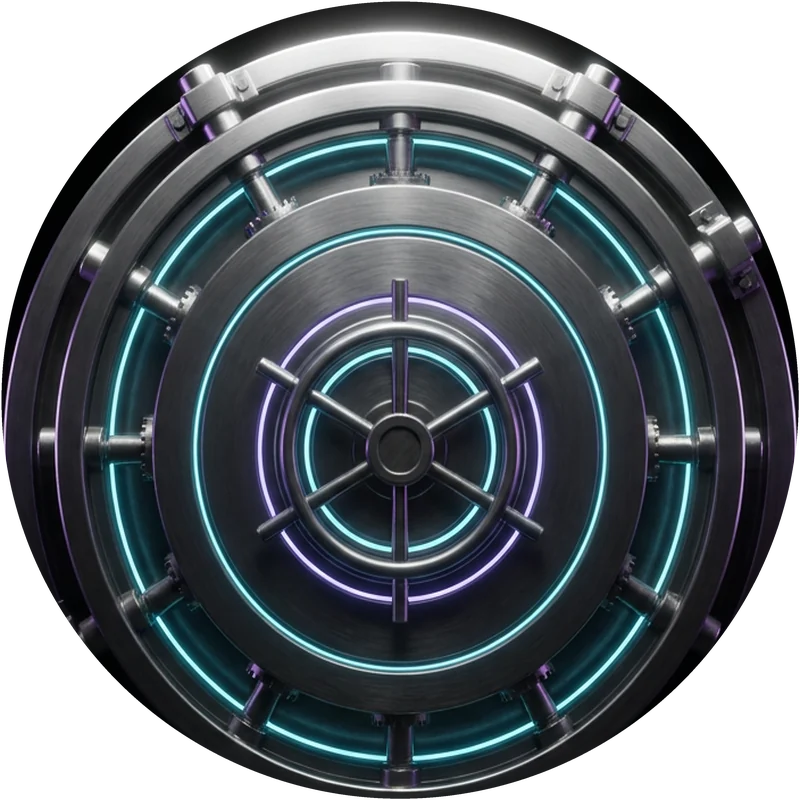
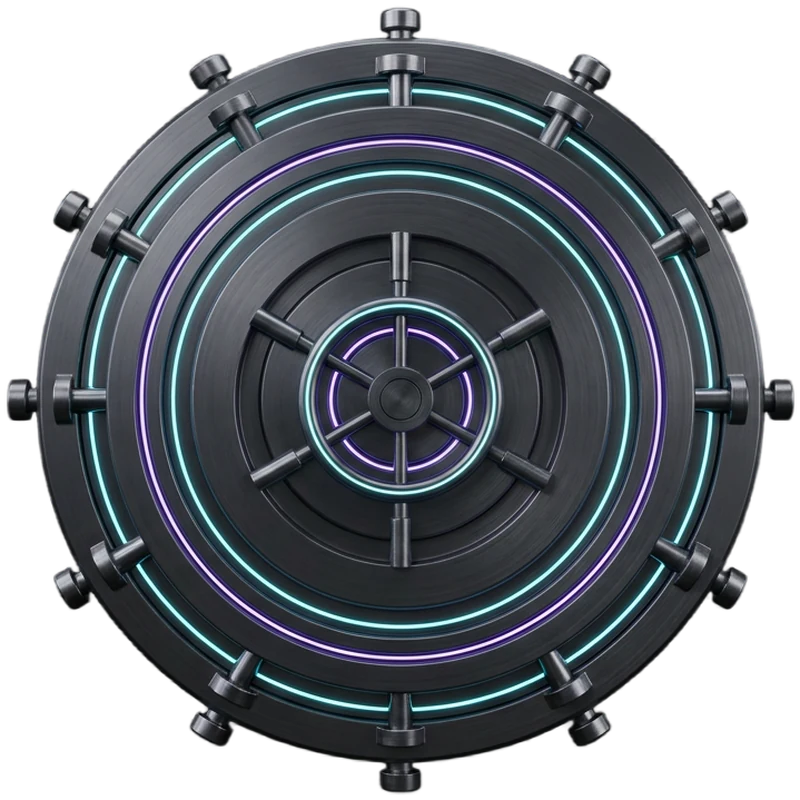
26.6.11: Vault cutscene with full spinning door, pixel glitches, dense hyperspace and new sound
Claude-Session: https://claude.ai/code/session_01TEwoRxsYmEj8fXxorjx1p8

diff --git a/static/js/vault-cutscene.js b/static/js/vault-cutscene.js
@@ -2,6 +2,7 @@
 // checks, "ACCESS GRANTED" slams in, the bolts on a round vault door pull back, the door
 // splits open into a hyperspace rush of light, and the Vault appears.
 // VaultCutscene.play({ name, role }) → Promise that resolves when it's over (about 7 s).
+// 26.6.11: a full, spinning door; colourful pixel glitches; a dense hyperspace rush; new glitchy sound.
 // 26.6.10: real pictures — a steel vault door with a turning locking wheel, and the glowing vault corridor behind it.
 // Click, Enter, Space or Esc skips it. People who prefer reduced motion get a short fade.
 (function () {
@@ -12,26 +13,37 @@
 @keyframes vcsIn{from{opacity:0}}
 #vcs .inside{position:absolute;inset:-4%;background:url(${IMG}inside.jpg) center/cover no-repeat;opacity:0;transform:scale(1.25);filter:brightness(.5) saturate(1.2)}
 #vcs.open .inside{opacity:1;transform:scale(1);filter:brightness(1.05) saturate(1.25);transition:opacity .5s ease-out,transform 1.1s cubic-bezier(.3,0,.2,1),filter 1s}
-#vcs.fly .inside{transform:scale(2.6);filter:brightness(1.6) saturate(1.3) blur(3px);transition:transform 1.7s cubic-bezier(.6,0,.4,1),filter 1.7s ease-in}
+#vcs.fly .inside{transform:scale(2.6);opacity:.3;filter:brightness(1.2) saturate(1.4) blur(6px);transition:transform 1.7s cubic-bezier(.6,0,.4,1),filter 1.2s ease-in,opacity 1s ease-in}
 #vcs canvas{position:absolute;inset:0;width:100%;height:100%}
-#vcs.open canvas{mix-blend-mode:screen}
+#vcs.open canvas.warp{mix-blend-mode:screen}
+#vcs canvas.gl{z-index:5;pointer-events:none}
+#vcs.glitch .stage{animation:vcsJit .09s steps(2) infinite}
+#vcs.glitch .grant h1{text-shadow:-8px 0 rgba(255,0,120,.9),8px 0 rgba(0,230,255,.9),0 0 30px rgba(74,222,128,.9)}
+@keyframes vcsJit{0%{translate:-6px 2px;filter:hue-rotate(40deg)}50%{translate:7px -3px;filter:hue-rotate(-40deg) saturate(2)}100%{translate:0 0}}
+#vcs .core{position:absolute;left:50%;top:50%;width:30vmin;height:30vmin;margin:-15vmin 0 0 -15vmin;border-radius:50%;opacity:0;background:radial-gradient(circle,#fff 0%,rgba(220,240,255,.95) 12%,rgba(120,190,255,.55) 32%,rgba(60,120,255,.18) 55%,transparent 70%);mix-blend-mode:screen;z-index:4;pointer-events:none}
+#vcs.fly .core{opacity:1;transform:scale(2.2);transition:opacity .5s,transform 1.6s ease-in}
 #vcs .flash{position:absolute;inset:0;background:#fff;opacity:0;pointer-events:none}
 #vcs .flash.go{animation:vcsFlash .4s ease-out}
-@keyframes vcsFlash{0%{opacity:.55}100%{opacity:0}}
+@keyframes vcsFlash{0%{opacity:.3}100%{opacity:0}}
 #vcs .flash.end{animation:vcsFlashEnd .55s ease-in forwards}
 @keyframes vcsFlashEnd{to{opacity:1}}
 #vcs .scanl{position:absolute;inset:0;pointer-events:none;background:repeating-linear-gradient(0deg,rgba(255,255,255,.03) 0 1px,transparent 1px 3px);mix-blend-mode:overlay}
 #vcs .vign{position:absolute;inset:0;pointer-events:none;background:radial-gradient(ellipse at center,transparent 40%,rgba(0,0,0,.8) 100%)}
-#vcs .stage{position:absolute;left:50%;top:50%;width:min(76vmin,640px);height:min(76vmin,640px);transform:translate(-50%,-50%) scale(.55);opacity:0;transition:transform 1.6s cubic-bezier(.2,.9,.3,1),opacity .6s}
+#vcs .stage{position:absolute;left:50%;top:50%;width:min(66vmin,600px);height:min(66vmin,600px);transform:translate(-50%,-50%) scale(.55);opacity:0;transition:transform 1.6s cubic-bezier(.2,.9,.3,1),opacity .6s}
 #vcs.in .stage{transform:translate(-50%,-50%) scale(1);opacity:1}
-#vcs.push .stage{transform:translate(-50%,-50%) scale(1.08);transition:transform 2.6s ease-in-out}
+#vcs.push .stage{transform:translate(-50%,-50%) scale(1.05);transition:transform 2.6s ease-in-out}
 #vcs .half{position:absolute;inset:0;transition:transform 1.2s cubic-bezier(.7,0,.2,1),filter 1.2s}
-#vcs .half.l{clip-path:inset(-5% 50% -5% -5%)} #vcs .half.r{clip-path:inset(-5% -5% -5% 50%)}
+#vcs .half.l{clip-path:inset(-10% 49.7% -10% -10%)} #vcs .half.r{clip-path:inset(-10% -10% -10% 49.7%)}
 #vcs.open .half.l{transform:translateX(-70vw) rotateY(25deg)} #vcs.open .half.r{transform:translateX(70vw) rotateY(-25deg)}
-#vcs .door{position:absolute;inset:0;width:100%;height:100%;filter:drop-shadow(0 0 40px rgba(80,200,255,.35)) drop-shadow(0 20px 40px rgba(0,0,0,.8))}
-#vcs .wheel{position:absolute;left:31.25%;top:37%;width:37.5%;height:37.5%;transition:transform 1.3s cubic-bezier(.5,0,.25,1)}
-#vcs.turn .wheel{transform:rotate(300deg)}
-#vcs .glow{position:absolute;left:31.25%;top:37%;width:37.5%;height:37.5%;border-radius:50%;opacity:0;background:radial-gradient(circle,rgba(74,222,128,.55),rgba(34,197,94,.15) 55%,transparent 70%);mix-blend-mode:screen;transition:opacity .4s}
+#vcs .spin{position:absolute;inset:0;transition:transform 1.25s cubic-bezier(.55,0,.2,1)}
+#vcs.turn .spin{transform:rotate(-135deg)}
+#vcs .door{position:absolute;inset:0;width:100%;height:100%;object-fit:contain;filter:drop-shadow(0 0 40px rgba(80,200,255,.35)) drop-shadow(0 20px 40px rgba(0,0,0,.8))}
+#vcs .sweep{position:absolute;inset:-3%;border-radius:50%;opacity:0;background:conic-gradient(from 0deg,transparent 0 62%,rgba(103,232,249,.0) 64%,rgba(103,232,249,.85) 74%,rgba(255,255,255,.95) 75%,transparent 76%);-webkit-mask:radial-gradient(farthest-side,transparent calc(100% - 14px),#000 calc(100% - 13px));mask:radial-gradient(farthest-side,transparent calc(100% - 14px),#000 calc(100% - 13px));filter:drop-shadow(0 0 10px #22d3ee)}
+#vcs.turn .sweep{opacity:1;animation:vcsRot .35s linear 4 reverse}
+#vcs.open .sweep,#vcs.open .ringfx,#vcs.open .beam{opacity:0!important;animation:none!important}
+@keyframes vcsRot{to{transform:rotate(360deg)}}
+#vcs.turn .spin .door{filter:drop-shadow(0 0 50px rgba(80,200,255,.6)) blur(.6px)}
+#vcs .glow{position:absolute;left:30%;top:30%;width:40%;height:40%;border-radius:50%;opacity:0;background:radial-gradient(circle,rgba(74,222,128,.55),rgba(34,197,94,.15) 55%,transparent 70%);mix-blend-mode:screen;transition:opacity .4s}
 #vcs.granted .glow{opacity:1;animation:vcsPulse 1s ease-in-out infinite}
 @keyframes vcsPulse{50%{transform:scale(1.12);opacity:.7}}
 #vcs .beam{position:absolute;left:-6%;right:-6%;height:3px;top:0;opacity:0;background:linear-gradient(90deg,transparent,#67e8f9 20%,#fff 50%,#67e8f9 80%,transparent);box-shadow:0 0 18px #22d3ee,0 0 40px #06b6d4}
@@ -65,39 +77,71 @@
 @media (max-width:600px){#vcs .hud{font-size:10px;top:5vh}#vcs .hud2{display:none}}
 `;
     // preload the pictures as soon as this file loads, so the cutscene never waits for them
-    ['door.webp', 'wheel.webp', 'inside.jpg'].forEach(function (f) { var i = new Image(); i.src = IMG + f; });
+    ['door.webp', 'inside.jpg'].forEach(function (f) { var i = new Image(); i.src = IMG + f; });
 
+    // 26.6.11: sound inspired by the clip you sent — bright, glitchy and digital, in E minor at
+    // about 156 BPM, no heavy bass: chattering data ticks over a hiss, a long riser, stuttering
+    // glitches on ACCESS GRANTED, ratchets as the door spins, a sudden cut to silence, then an
+    // impact and a shimmering arpeggio as you rush through hyperspace.
     function sound() {
-        // quiet and only if the browser allows it: a rising hum while scanning, a bright chime for
-        // ACCESS GRANTED, heavy clunks as the wheel turns, a deep boom and a whoosh as the door opens
         try {
             var AC = window.AudioContext || window.webkitAudioContext; if (!AC) return function () {};
-            var a = new AC(), m = a.createGain(); m.gain.value = 0.16; m.connect(a.destination);
-            var t0 = a.currentTime;
-            var hum = a.createOscillator(), hg = a.createGain(), lp = a.createBiquadFilter();
-            hum.type = 'sawtooth'; hum.frequency.setValueAtTime(45, t0); hum.frequency.exponentialRampToValueAtTime(110, t0 + 3); hum.frequency.exponentialRampToValueAtTime(260, t0 + 6.5);
-            lp.type = 'lowpass'; lp.frequency.setValueAtTime(250, t0); lp.frequency.exponentialRampToValueAtTime(2600, t0 + 6.5);
-            hg.gain.setValueAtTime(0.0001, t0); hg.gain.exponentialRampToValueAtTime(0.45, t0 + 0.8); hg.gain.setValueAtTime(0.45, t0 + 5.5); hg.gain.exponentialRampToValueAtTime(0.0001, t0 + 7);
-            hum.connect(lp); lp.connect(hg); hg.connect(m); hum.start(t0); hum.stop(t0 + 7.1);
-            function beep(at, f) { var o = a.createOscillator(), g = a.createGain(); o.type = 'square'; o.frequency.value = f; g.gain.setValueAtTime(0.0001, t0 + at); g.gain.exponentialRampToValueAtTime(0.12, t0 + at + 0.01); g.gain.exponentialRampToValueAtTime(0.0001, t0 + at + 0.08); o.connect(g); g.connect(m); o.start(t0 + at); o.stop(t0 + at + 0.1); }
-            for (var b = 0; b < 8; b++) beep(0.3 + b * 0.32, 1200 + (b % 3) * 300);
-            function clunk(at, f) {
-                var o = a.createOscillator(), g = a.createGain(); o.type = 'square'; o.frequency.setValueAtTime(f || 140, t0 + at); o.frequency.exponentialRampToValueAtTime(35, t0 + at + 0.18);
-                g.gain.setValueAtTime(0.7, t0 + at); g.gain.exponentialRampToValueAtTime(0.0001, t0 + at + 0.25); o.connect(g); g.connect(m); o.start(t0 + at); o.stop(t0 + at + 0.3);
+            var a = new AC(), m = a.createGain(), comp = a.createDynamicsCompressor();
+            m.gain.value = 0.9; m.connect(comp); comp.connect(a.destination);
+            var t0 = a.currentTime + 0.03, SR = a.sampleRate;
+            var hp = a.createBiquadFilter(); hp.type = 'highpass'; hp.frequency.value = 160; hp.connect(m);   // keep it light, no rumble
+            var bus = hp;
+            // bit-crusher for that digital grit
+            var crush = a.createWaveShaper(), cv = new Float32Array(1024);
+            for (var i = 0; i < 1024; i++) { var v = i / 512 - 1; cv[i] = Math.round(v * 6) / 6; }
+            crush.curve = cv; crush.connect(bus);
+            function noiseBuf(sec) { var b = a.createBuffer(1, SR * sec, SR), d = b.getChannelData(0); for (var j = 0; j < d.length; j++) d[j] = Math.random() * 2 - 1; return b; }
+            var NB = noiseBuf(2);
+            function env(g, at, peak, atk, dec) { g.gain.setValueAtTime(0.0001, at); g.gain.exponentialRampToValueAtTime(peak, at + atk); g.gain.exponentialRampToValueAtTime(0.0001, at + atk + dec); }
+            function tone(at, f, dur, type, vol, dest) {
+                var o = a.createOscillator(), g = a.createGain(); o.type = type || 'square'; o.frequency.value = f;
+                env(g, at, vol || 0.1, 0.004, dur); o.connect(g); g.connect(dest || crush); o.start(at); o.stop(at + dur + 0.05);
             }
-            [880, 1318.5, 1760].forEach(function (f, i) {
-                var o = a.createOscillator(), g = a.createGain(); o.type = 'sine'; o.frequency.value = f;
-                var at = t0 + 3.0 + i * 0.08; g.gain.setValueAtTime(0.0001, at); g.gain.exponentialRampToValueAtTime(0.35, at + 0.02); g.gain.exponentialRampToValueAtTime(0.0001, at + 1.4);
-                o.connect(g); g.connect(m); o.start(at); o.stop(at + 1.5);
+            function noise(at, dur, f1, f2, vol, q, shape) {
+                var n = a.createBufferSource(), bp = a.createBiquadFilter(), g = a.createGain();
+                n.buffer = NB; n.loop = true; bp.type = 'bandpass'; bp.Q.value = q || 1;
+                bp.frequency.setValueAtTime(f1, at); bp.frequency.exponentialRampToValueAtTime(f2, at + dur);
+                if (shape === 'rise') { g.gain.setValueAtTime(0.0001, at); g.gain.exponentialRampToValueAtTime(vol, at + dur - 0.04); g.gain.linearRampToValueAtTime(0.0001, at + dur); }
+                else if (shape === 'flat') { g.gain.setValueAtTime(0.0001, at); g.gain.linearRampToValueAtTime(vol, at + 0.3); g.gain.setValueAtTime(vol, at + dur - 0.3); g.gain.linearRampToValueAtTime(0.0001, at + dur); }
+                else { g.gain.setValueAtTime(0.0001, at); g.gain.exponentialRampToValueAtTime(vol, at + Math.min(0.05, dur / 3)); g.gain.exponentialRampToValueAtTime(0.0001, at + dur); }
+                n.connect(bp); bp.connect(g); g.connect(bus); n.start(at, Math.random()); n.stop(at + dur + 0.05);
+            }
+            var E = [329.6, 392, 493.9, 587.3, 659.3, 784, 987.8, 1318.5];   // E minor pentatonic-ish, bright octaves
+            var S16 = 60 / 156 / 4;
+            // hiss bed + data ticks (0 → 3 s)
+            noise(t0, 3.0, 6000, 9000, 0.12, 0.4, 'flat');
+            for (var k = 0; k * S16 < 2.9; k++) if (Math.random() < 0.75) tone(t0 + k * S16, E[4 + Math.floor(Math.random() * 4)] * (Math.random() < 0.3 ? 2 : 1), 0.04, 'square', 0.05);
+            // riser into the reveal
+            var r = a.createOscillator(), rg = a.createGain(); r.type = 'sawtooth';
+            r.frequency.setValueAtTime(220, t0 + 0.6); r.frequency.exponentialRampToValueAtTime(1760, t0 + 2.95);
+            rg.gain.setValueAtTime(0.0001, t0 + 0.6); rg.gain.exponentialRampToValueAtTime(0.16, t0 + 2.8); rg.gain.exponentialRampToValueAtTime(0.0001, t0 + 3.0);
+            r.connect(rg); rg.connect(crush); r.start(t0 + 0.6); r.stop(t0 + 3.05);
+            noise(t0 + 1.0, 2.0, 400, 7000, 0.4, 1.5, 'rise');
+            // ACCESS GRANTED (3.0 s): stutter glitch + bright E minor stab
+            for (var st = 0; st < 10; st++) { var at = t0 + 3.0 + st * 0.03; if (st % 3 !== 2) noise(at, 0.025, 2000 + Math.random() * 5000, 3000 + Math.random() * 4000, 0.3, 2); }
+            [659.3, 784, 987.8, 1318.5].forEach(function (f) {
+                [-7, 7].forEach(function (det) {
+                    var o = a.createOscillator(), g = a.createGain(); o.type = 'sawtooth'; o.frequency.value = f; o.detune.value = det;
+                    env(g, t0 + 3.3, 0.05, 0.01, 1.3); o.connect(g); g.connect(bus); o.start(t0 + 3.3); o.stop(t0 + 4.7);
+                });
             });
-            clunk(3.75); clunk(4.2); clunk(4.65); clunk(5.0, 90);
-            var len = a.sampleRate * 2.2, buf = a.createBuffer(1, len, a.sampleRate), ch = buf.getChannelData(0);
-            for (var i = 0; i < len; i++) ch[i] = (Math.random() * 2 - 1) * Math.pow(1 - i / len, 0.6);
-            var n = a.createBufferSource(), bp = a.createBiquadFilter(), ng = a.createGain(); n.buffer = buf; bp.type = 'bandpass'; bp.Q.value = 0.7;
-            bp.frequency.setValueAtTime(200, t0 + 5.0); bp.frequency.exponentialRampToValueAtTime(4000, t0 + 6.8);
-            ng.gain.setValueAtTime(0.0001, t0 + 5.0); ng.gain.exponentialRampToValueAtTime(0.8, t0 + 5.4); ng.gain.exponentialRampToValueAtTime(0.0001, t0 + 7.1);
-            n.connect(bp); bp.connect(ng); ng.connect(m); n.start(t0 + 5.0);
-            return function () { try { m.gain.setTargetAtTime(0, a.currentTime, 0.05); setTimeout(function () { a.close(); }, 400); } catch (e) {} };
+            // the door spinning (3.7 → 4.9 s): ratchet clicks that speed up, with a rising sweep
+            var tt = 3.7, gap = 0.11;
+            while (tt < 4.85) { noise(t0 + tt, 0.02, 3500, 2500, 0.5, 6); tone(t0 + tt, 180 + (tt - 3.7) * 200, 0.03, 'square', 0.05); tt += gap; gap = Math.max(0.035, gap * 0.9); }
+            noise(t0 + 3.7, 1.2, 300, 3000, 0.3, 3, 'rise');
+            // a sudden cut to silence (4.9 → 5.0 s), then the impact and the hyperspace rush
+            m.gain.setValueAtTime(0.9, t0 + 4.88); m.gain.linearRampToValueAtTime(0.0001, t0 + 4.9); m.gain.setValueAtTime(0.0001, t0 + 4.99); m.gain.linearRampToValueAtTime(1.0, t0 + 5.0);
+            noise(t0 + 5.0, 0.6, 1200, 300, 0.5, 0.6);
+            tone(t0 + 5.0, 110, 0.35, 'sine', 0.5, bus);
+            noise(t0 + 5.05, 1.9, 500, 9000, 0.4, 0.8, 'flat');
+            for (var q2 = 0; q2 * S16 < 1.85; q2++) tone(t0 + 5.05 + q2 * S16, E[(q2 * 3) % E.length] * 2, 0.09, 'triangle', 0.06, bus);
+            m.gain.setValueAtTime(1.0, t0 + 6.6); m.gain.exponentialRampToValueAtTime(0.0001, t0 + 7.2);
+            return function () { try { m.gain.cancelScheduledValues(a.currentTime); m.gain.setTargetAtTime(0, a.currentTime, 0.05); setTimeout(function () { a.close(); }, 400); } catch (e) {} };
         } catch (e) { return function () {}; }
     }
 
@@ -110,9 +154,9 @@
             if (!document.getElementById('vcs-css')) { var st = document.createElement('style'); st.id = 'vcs-css'; st.textContent = CSS; document.head.appendChild(st); }
             var reduce = window.matchMedia && window.matchMedia('(prefers-reduced-motion: reduce)').matches;
             var el = document.createElement('div'); el.id = 'vcs'; el.setAttribute('role', 'status'); el.setAttribute('aria-label', 'Access granted, opening the Vault');
-            var face = '<img class="door" src="' + IMG + 'door.webp" alt="" draggable="false"><img class="wheel" src="' + IMG + 'wheel.webp" alt="" draggable="false"><div class="glow"></div>';
-            el.innerHTML = '<div class="inside"></div><canvas></canvas>' +
-                '<div class="stage"><div class="ringfx"></div><div class="ringfx b"></div><div class="half l">' + face + '</div><div class="half r">' + face + '</div><div class="beam"></div><div class="lock">SCANNING · BIOMETRIC LOCK</div></div>' +
+            var face = '<div class="spin"><img class="door" src="' + IMG + 'door.webp" alt="" draggable="false"></div><div class="glow"></div>';
+            el.innerHTML = '<div class="inside"></div><canvas class="warp"></canvas><div class="core"></div><canvas class="gl"></canvas>' +
+                '<div class="stage"><div class="ringfx"></div><div class="ringfx b"></div><div class="sweep"></div><div class="half l">' + face + '</div><div class="half r">' + face + '</div><div class="beam"></div><div class="lock">SCANNING · BIOMETRIC LOCK</div></div>' +
                 '<div class="grant"><h1>ACCESS GRANTED</h1><p>WELCOME BACK' + (name ? ', ' + name : '') + '</p></div>' +
                 '<div class="title">ENTERING THE VAULT</div>' +
                 '<div class="hud"></div><div class="hud2"></div><div class="bar-t">DECRYPTING VAULT</div><div class="bar"><i></i></div>' +
@@ -121,7 +165,7 @@
             var done = false, timers = [], raf = 0, stopSound = function () {}, hexT = 0;
             function finish() {
                 if (done) return; done = true;
-                timers.forEach(clearTimeout); clearInterval(hexT); stopSound();
+                timers.forEach(clearTimeout); clearInterval(hexT); stopSound(); window.removeEventListener('resize', size); window.removeEventListener('resize', gsize);
                 el.classList.add('out');
                 document.removeEventListener('keydown', onKey, true);
                 setTimeout(function () { cancelAnimationFrame(raf); el.remove(); resolve(); }, 480);
@@ -151,37 +195,69 @@
             hexT = setInterval(function () { hud2.textContent = [hex() + ' ' + hex(), hex() + ' ' + hex(), hex() + ' ' + hex(), 'NODE ZP-01 · AES-256 · TLS 1.3', new Date().toISOString().slice(11, 23) + ' UTC'].join('\n'); }, 80);
 
             // stars, which stretch into a hyperspace rush once the door opens
-            var cv = el.querySelector('canvas'), ctx = cv.getContext('2d'), dpr = Math.min(2, window.devicePixelRatio || 1), W, H, stars = [], speed = 0.15, warp = 0;
+            var cv = el.querySelector('canvas.warp'), ctx = cv.getContext('2d'), dpr = Math.min(2, window.devicePixelRatio || 1), W, H, stars = [], speed = 0.15, warp = 0;
             function size() { W = innerWidth; H = innerHeight; cv.width = W * dpr; cv.height = H * dpr; ctx.setTransform(dpr, 0, 0, dpr, 0, 0); }
             size(); window.addEventListener('resize', size);
-            for (var s2 = 0; s2 < 460; s2++) stars.push({ x: (Math.random() - .5) * 2, y: (Math.random() - .5) * 2, z: Math.random() });
+            var COLS = ['190,240,255', '140,210,255', '90,160,255', '255,255,255', '255,255,255', '170,255,235', '255,235,180', '210,190,255'];
+            function star() { return { x: (Math.random() - .5) * 2, y: (Math.random() - .5) * 2, z: Math.random(), c: COLS[Math.floor(Math.random() * COLS.length)], w: 0.5 + Math.random() * 1.6 }; }
+            for (var s2 = 0; s2 < 1400; s2++) stars.push(star());
+            var gcv = el.querySelector('canvas.gl'), gx = gcv.getContext('2d'), glitchUntil = 0, glitchPow = 1;
+            function gsize() { gcv.width = innerWidth; gcv.height = innerHeight; }
+            gsize(); window.addEventListener('resize', gsize);
+            var GC = ['#6ee7ff', '#3b82f6', '#a855f7', '#f0abfc', '#ffffff', '#a3e635', '#f59e0b', '#22d3ee', '#8b5cf6', '#e0f2fe'];
+            function drawGlitch(now) {
+                gx.clearRect(0, 0, gcv.width, gcv.height);
+                if (now > glitchUntil) { el.classList.remove('glitch'); return; }
+                el.classList.add('glitch');
+                var Wd = gcv.width, Hd = gcv.height, bands = 1 + Math.floor(Math.random() * 2 * glitchPow);
+                for (var bI = 0; bI < bands; bI++) {
+                    var cy = Hd * (0.2 + Math.random() * 0.6), spread = Hd * (0.06 + Math.random() * 0.14), n = Math.floor(120 * glitchPow);
+                    for (var r = 0; r < n; r++) {
+                        var yy = cy + (Math.random() + Math.random() - 1) * spread, w = Math.pow(Math.random(), 2.2) * Wd * 0.35 + 6, h = [3, 4, 6, 9, 14, 22][Math.floor(Math.pow(Math.random(), 1.6) * 6)];
+                        gx.globalAlpha = 0.55 + Math.random() * 0.45; gx.fillStyle = GC[Math.floor(Math.random() * GC.length)];
+                        gx.fillRect(Math.round((Math.random() * 1.2 - 0.1) * Wd / 4) * 4, Math.round(yy / 2) * 2, Math.round(w), h);
+                    }
+                    for (var d = 0; d < 60 * glitchPow; d++) { gx.fillStyle = GC[d % GC.length]; gx.fillRect(Math.random() * Wd, cy + (Math.random() - .5) * spread * 4, 2, 2); }
+                }
+                for (var L = 0; L < 5; L++) { gx.globalAlpha = 0.9; gx.fillStyle = GC[Math.floor(Math.random() * GC.length)]; var lw = Wd * (0.1 + Math.random() * 0.3); gx.fillRect(Math.random() < 0.5 ? 0 : Wd - lw, Math.random() * Hd, lw, 3); }
+                gx.globalAlpha = 1;
+            }
+            function glitch(ms, pow) { glitchUntil = performance.now() + ms; glitchPow = pow || 1; }
             var last = performance.now();
             (function frame(now) {
                 raf = requestAnimationFrame(frame);
                 var dt = Math.min(.05, (now - last) / 1000); last = now;
-                speed += ((warp ? 2.6 * warp : 0.12) - speed) * Math.min(1, dt * 1.5);
+                speed += ((warp ? 3.4 * warp : 0.12) - speed) * Math.min(1, dt * 1.6);
                 ctx.clearRect(0, 0, W, H);
-                var cx = W / 2, cy = H / 2, f = Math.max(W, H) * 0.5, trail = 0.02 + speed * 0.09;
-                for (var i = 0; i < stars.length; i++) {
+                ctx.globalCompositeOperation = warp ? 'lighter' : 'source-over';
+                var cx = W / 2, cy = H / 2, f = Math.max(W, H) * 0.5, trail = 0.015 + speed * 0.11, limit = warp ? stars.length : 460;
+                for (var i = 0; i < limit; i++) {
                     var p = stars[i]; p.z -= speed * dt;
-                    if (p.z <= 0.02) { p.x = (Math.random() - .5) * 2; p.y = (Math.random() - .5) * 2; p.z = 1; continue; }
+                    if (p.z <= 0.02) { var nw = star(); p.x = nw.x; p.y = nw.y; p.z = 1; continue; }
                     var pz = Math.min(1, p.z + trail);
                     var sx = cx + p.x / p.z * f * 0.5, sy = cy + p.y / p.z * f * 0.5, px = cx + p.x / pz * f * 0.5, py = cy + p.y / pz * f * 0.5;
-                    var br = Math.min(1, (1 - p.z) * 1.4);
-                    ctx.strokeStyle = 'rgba(' + (warp ? '210,230,255,' : '150,180,255,') + br + ')';
-                    ctx.lineWidth = Math.max(.6, (1 - p.z) * (warp ? 3 : 1.8));
+                    var br = Math.min(1, (1 - p.z) * 1.5);
+                    ctx.strokeStyle = 'rgba(' + (warp ? p.c : '150,180,255') + ',' + br + ')';
+                    ctx.lineWidth = Math.max(.5, (1 - p.z) * (warp ? 3.2 * p.w : 1.8));
                     ctx.beginPath(); ctx.moveTo(px, py); ctx.lineTo(sx, sy); ctx.stroke();
                 }
+                ctx.globalCompositeOperation = 'source-over';
+                drawGlitch(now);
             })(last);
 
             // the timeline (ms)
-            at(60, function () { el.classList.add('in'); el.querySelector('.bar i').style.width = '100%'; });
+            at(60, function () { el.classList.add('in'); el.querySelector('.bar i').style.width = '100%'; glitch(180, .6); });
             at(900, function () { el.classList.add('scan'); });
+            at(1250, function () { glitch(90, .4); });
             at(1600, function () { el.classList.add('push'); });
+            at(2250, function () { glitch(110, .5); });
+            at(2930, function () { glitch(420, 1.4); });
             at(3000, function () { el.classList.remove('scan'); el.classList.add('granted'); el.querySelector('.lock').textContent = 'IDENTITY CONFIRMED'; flash(); });
             at(3700, function () { el.classList.add('turn'); el.querySelector('.lock').textContent = 'RELEASING LOCKS'; });
-            at(5000, function () { el.classList.add('open'); warp = 0.4; flash(); });
-            at(5500, function () { el.classList.add('fly'); warp = 1; });
+            at(4850, function () { glitch(160, 1.2); });
+            at(5000, function () { el.classList.add('open'); warp = 0.5; flash(); });
+            at(5450, function () { el.classList.add('fly'); warp = 1; });
+            at(6300, function () { glitch(150, .8); });
             at(6450, function () { flash('end'); });
             at(7000, finish);
         });

diff --git a/static/sw.js b/static/sw.js
@@ -1,4 +1,4 @@
-const CACHE = 'zenith-v100';
+const CACHE = 'zenith-v101';
 const URLS = [
   '/',
   '/app',

diff --git a/main.py b/main.py
@@ -47,10 +47,11 @@ from audit import router as audit_router
 REFERRAL_REQUIRED = 5  # referrals needed for Pro reward
 REFERRAL_PRO_DAYS = 3  # days of Pro granted per reward
 
-VERSION = "26.6.10"
+VERSION = "26.6.11"
 
 # User-facing changelog: what actually matters to normal users (benefits, no internals).
 USER_CHANGELOG = [
+    "26.6.11 Vault cutscene upgrade: a new vault door picture that's fully in view (nothing cut off) and actually spins to unlock, with a glowing light racing round its rim; colourful pixel-block glitches that tear across the screen at the big moments; a much denser, brighter hyperspace rush with a blazing white core; and a new glitchy, digital soundtrack — chattering data, a rising build, stutters on ACCESS GRANTED, ratchets as the door spins, a sudden silence, then an impact and a shimmering rush",
     "26.6.10 The Vault unlock cutscene now uses real pictures and lasts about 7 seconds: a huge steel vault door with glowing lights floats in while a laser scans it and the security console runs its checks, ACCESS GRANTED slams in, the big locking wheel turns with heavy clunks, the door splits open onto a glowing high-tech vault corridor, and you fly down it into the Vault. Click or press Enter to skip",
     "26.6.9 The Vault's own lock screen now has the same living look as the sign-in screen (moving aurora, starfield, glass card, clock). And unlocking the Vault now plays a sci-fi cutscene: a security console runs its checks, ACCESS GRANTED slams in with a glitch, the bolts on a giant round vault door pull back, the door splits open in a blast of light and you shoot through hyperspace into the Vault — with sound. Click or press Enter to skip it",
     "26.6.8 Christmas snow: the snow along the bottom of the screen now melts away instead of building up for good, and you can swipe or tap it away too. Snow on the typing box and buttons now thins out smoothly before the rounded corners instead of ending in a cut-off edge. And the Vault sign-in screen has come alive: a moving aurora, a starfield that links up around your pointer, a glass card with a glowing border, a spinning ring around your initial, a live clock and greeting, and PIN dots that light up as you type, shake red on a wrong PIN and flash green as the Vault opens",
@@ -220,6 +221,7 @@ USER_CHANGELOG = [
 # Staff/admin changelog: current + technical notes (owners & admins see these too).
 STAFF_CHANGELOG = [
     *USER_CHANGELOG,
+    "26.6.11 Owner: vault-cutscene.js — door.webp replaced (background-removed, centred square), wheel layer dropped (.spin rotates the whole door, .sweep arc during the turn), halves overlap 0.6% to hide the seam, glitch canvas (pixel blocks + RGB jitter) at 0.06/1.25/2.25/2.93/4.85/6.3 s, 1400-star additive warp, radial core; sound rebuilt (E minor, 156 BPM, high-passed, bit-crushed ticks, risers, stutters, ratchets, 100 ms cut at 4.9 s, impact + arpeggio)",
     "26.6.10 Owner: vault-cutscene.js rebuilt around /static/img/vault/door.webp, wheel.webp (rotating layer over the door hub) and inside.jpg; preloaded on script load; timeline 0.06 door in, 0.9 scan, 3.0 granted, 3.7 wheel turns, 5.0 door opens, 5.5 fly-in, 6.45 white-out, 7.0 done",
     "26.6.9 Owner: static/js/vault-cutscene.js (VaultCutscene.play({name, role}) → Promise, ~3.4 s, WebAudio sound, skip on click/Enter/Space/Esc, short fade for reduced motion). Used by vault-auth.js _unlocked() before redirecting and by vault2.js lock() (lock screen hidden 600 ms in). vault2.html lock screen gets the vault-auth-fx background, clock and chips; vault-fx.js pauses its canvas while inside a [hidden] parent",
     "26.6.8 Owner: christmas.js ground pile max 9 (GMAX), melts at 0.22/s, knockGround() on fast swipe/tap near the bottom (chunks marked gone fade out instead of re-landing); ledges inset by 75% of the element corner radius with a smoothstep taper over up to 9 columns. Vault PIN page: vault-auth-fx.css + vault-fx.js (aurora, grid, star network canvas, clock, bursts), vault-auth.js adds next/bad/ok dot states and _unlocked() fade before /vault",

diff --git a/CHANGELOG.md b/CHANGELOG.md
@@ -1,5 +1,9 @@
 # Changelog
 
+## 26.6.11 — Vault cutscene: full spinning door, glitches, hyperspace, new sound
+
+- New background-removed door image that spins; pixel glitch overlay; denser additive hyperspace; rebuilt WebAudio score.
+
 ## 26.6.10 — Image-based 7-second Vault cutscene
 
 - Real door, locking wheel and vault corridor pictures in `/static/img/vault/`; cutscene lengthened to ~7 s.
